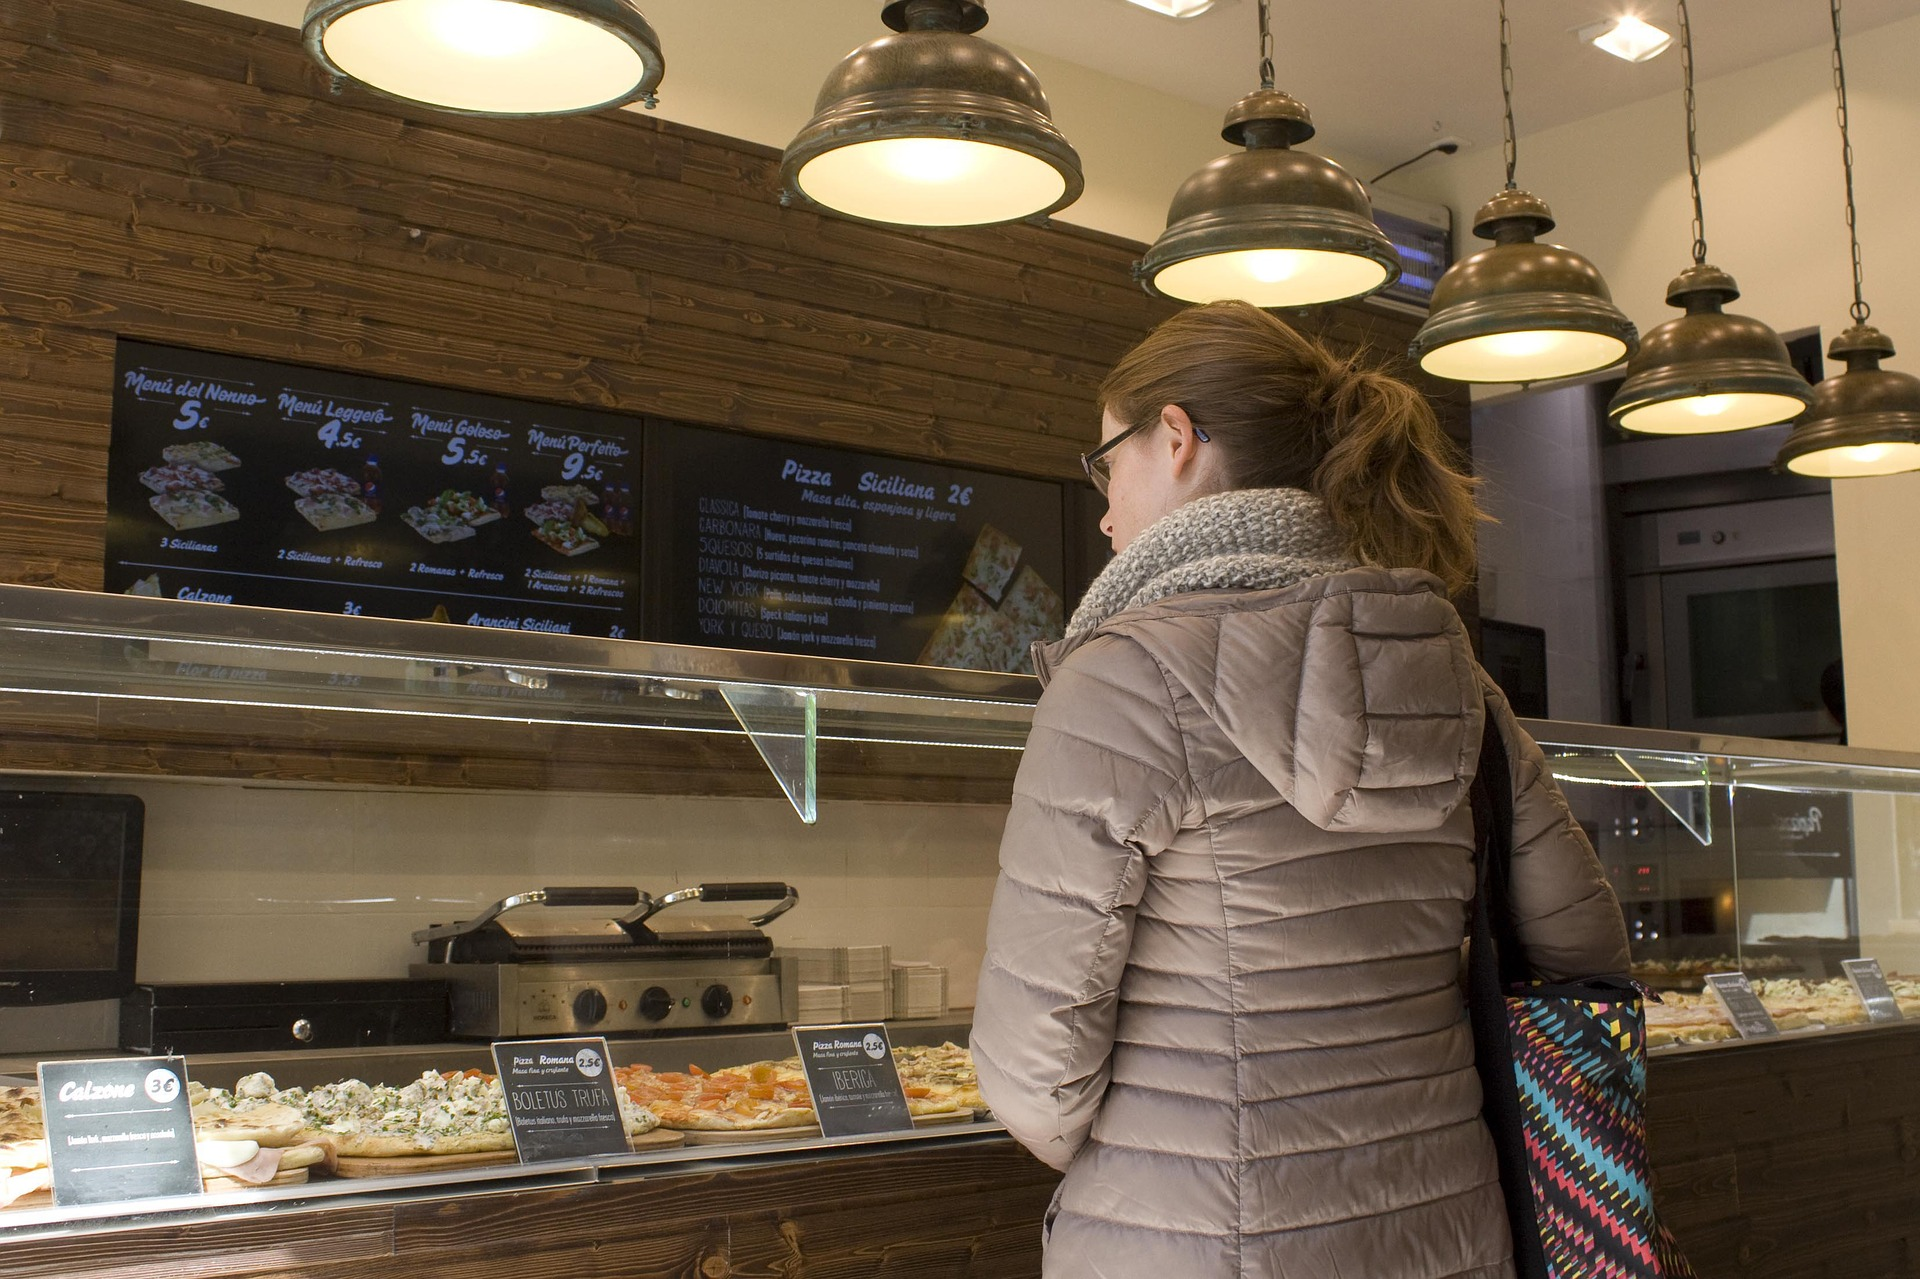
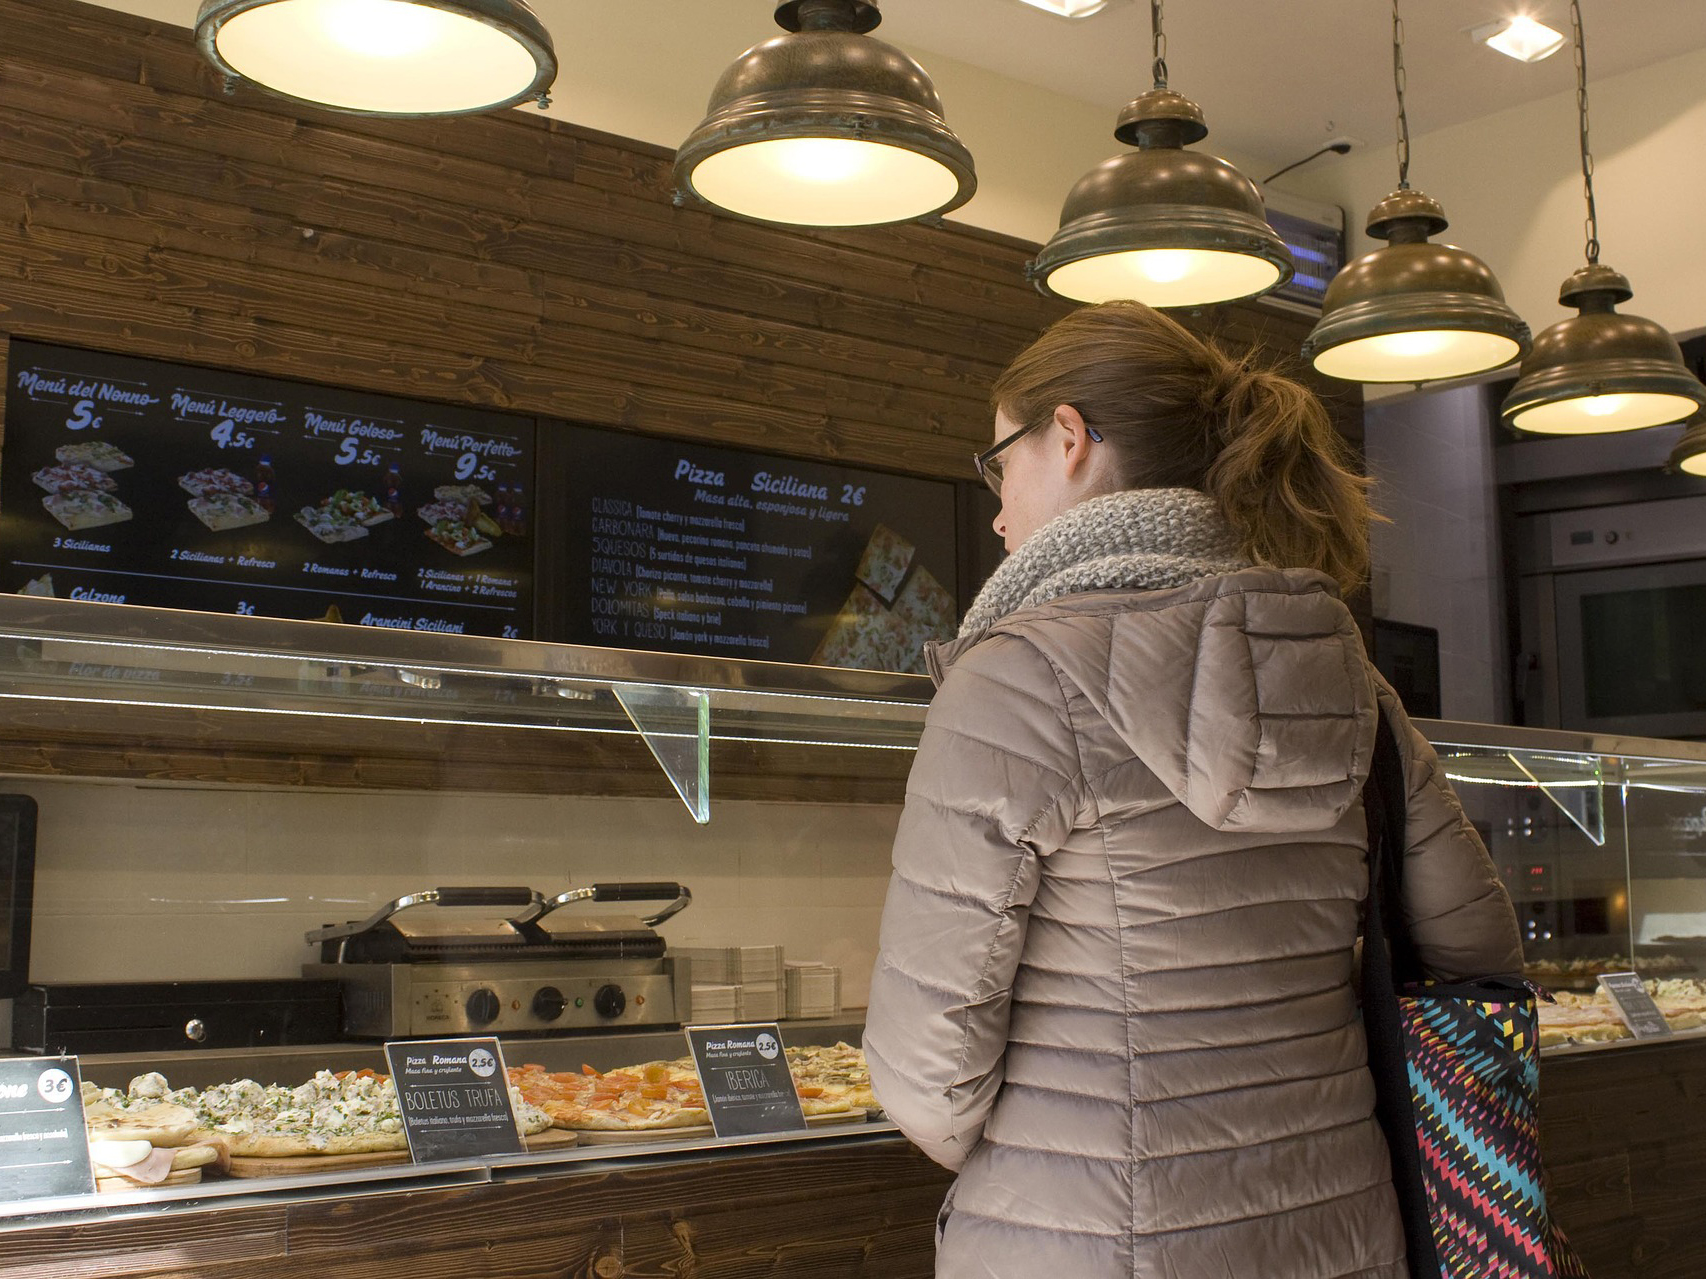
Cropped images for a more consistent look and feel

diff --git a/assets/main.css b/assets/main.css
@@ -122,6 +122,7 @@ a:visited {
   display: inline-block;
   margin-bottom: 1%;
   text-align: center;
+  font-size: 0;
 }
 
 .card h3 {
@@ -138,8 +139,9 @@ a:visited {
 }
 
 .card:hover {
+  box-shadow: 0 3px 6px rgba(0,0,0,0.16), 0 3px 6px rgba(0,0,0,0.23);
 }
 
 .card:hover h3 {
-  height: 100%;
+  bottom: 50%;
 }

diff --git a/menu/beer.md b/menu/beer.md
@@ -1,0 +1,1 @@
+Stuff about our beer options.
